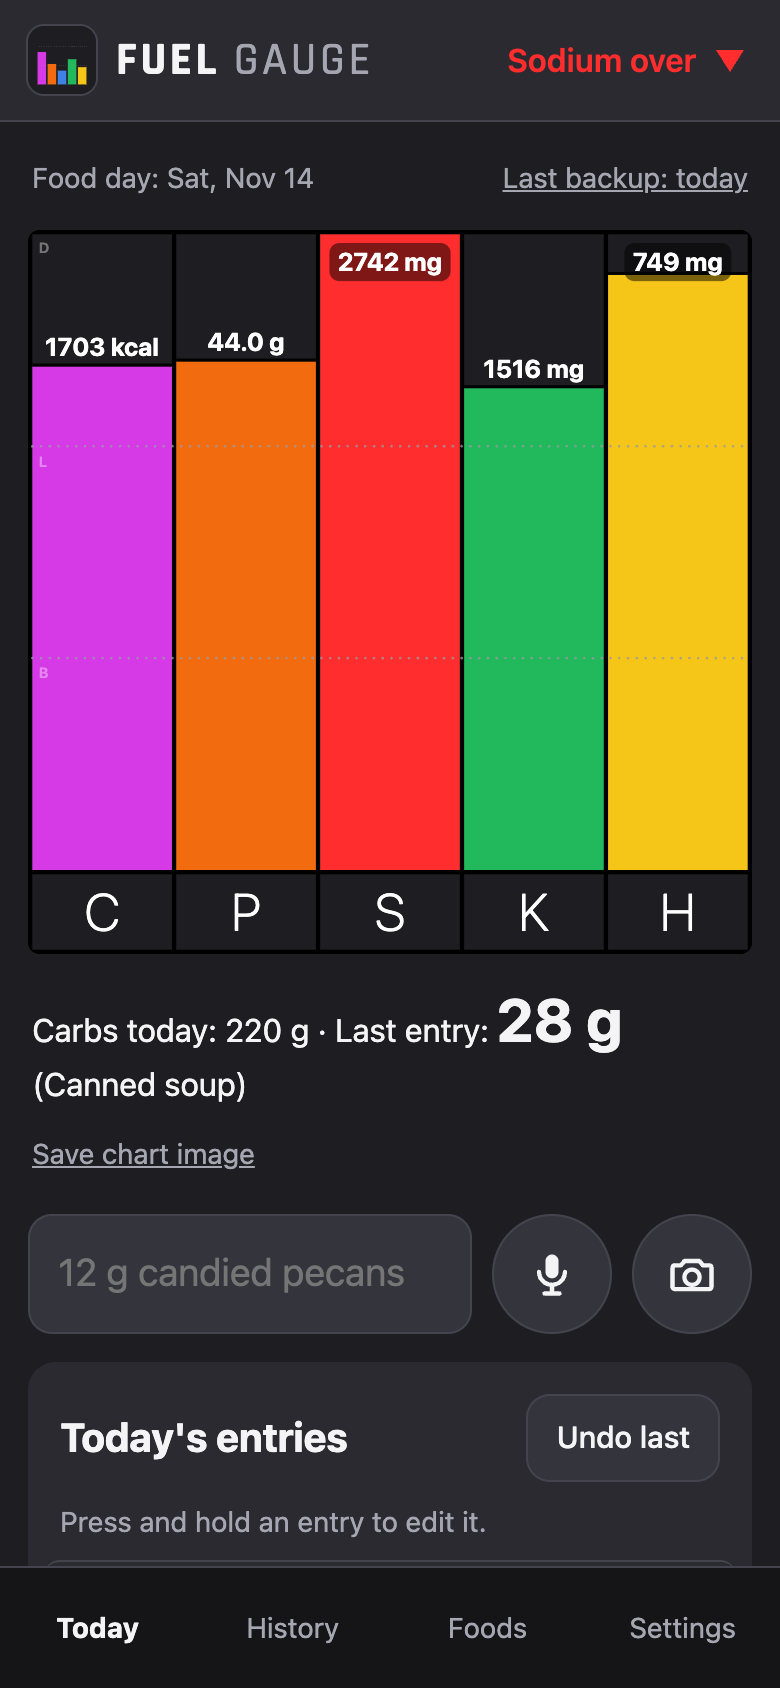
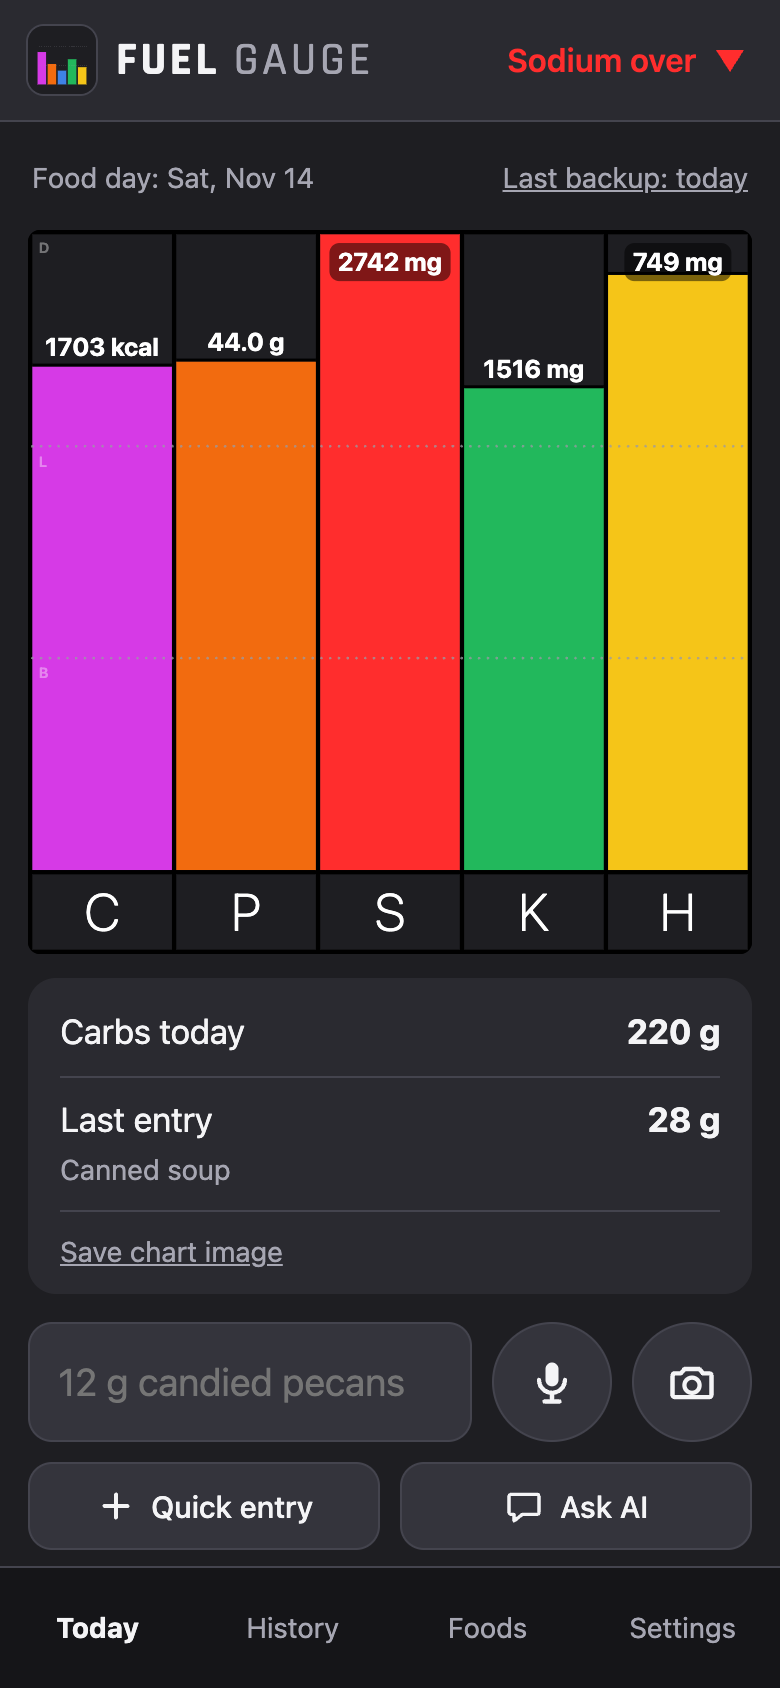
README: retake screenshots, add photo choices, AI chat and Ask AI
All screenshots retaken with the carbs card. A new row shows the label
photo choices, Quick entry filled in from an AI chat, and the Ask AI
screen. readme-shots.mjs mocks the chat replies for those.

Claude-Session: https://claude.ai/code/session_01Eu1dauVWMVH4nTP3g6ZiWb

Changed region(s): [[0.0308, 0.5853, 0.9846, 0.9242], [0.6462, 0.5853, 0.9231, 0.6777], [0.4308, 0.5853, 0.6154, 0.6161]]

diff --git a/README.md b/README.md
@@ -23,7 +23,7 @@ The screenshots use made-up demo data.
 <td width="33%" valign="top"><img src="screenshots/limit-over.png" alt="Sodium over its limit: the sodium bar and the trend indicator turn red"></td>
 </tr>
 <tr>
-<td valign="top"><b>Today.</b> One bar each for calories (C), protein (P), sodium (S), potassium (K) and phosphorus (H), filled against the day's targets. Effective carbs are shown in large type for the last entry, with the day's total beside them. Type or dictate what you ate, or photograph a label.</td>
+<td valign="top"><b>Today.</b> One bar each for calories (C), protein (P), sodium (S), potassium (K) and phosphorus (H), filled against the day's targets. Below it, a card with the day's effective carbs and the last entry's. Type or dictate what you ate, photograph a label, add a Quick entry, or ask the AI.</td>
 <td valign="top"><b>Trend indicator.</b> Top right: on pace (green up arrow), behind or close to a limit (yellow dash), or a limit over (red down arrow). Tap it for the reasons, the calorie pace and the weekly average.</td>
 <td valign="top"><b>Red means danger.</b> Red appears only when a limit is exceeded: the bar, its label and the indicator. Nothing else in the app is red.</td>
 </tr>
@@ -36,6 +36,16 @@ The screenshots use made-up demo data.
 <td valign="top"><b>USDA lookup.</b> A food the app doesn't know yet is searched in USDA FoodData Central. Pick the matching product.</td>
 <td valign="top"><b>Check before saving.</b> Every value shows where it came from, and the card links to the USDA record and gives its date. Nothing is logged until you choose.</td>
 <td valign="top"><b>Label photo.</b> Photograph a Nutrition Facts label and the printed values are read in. Anything the label leaves out, such as phosphorus, is filled in from USDA.</td>
+</tr>
+<tr>
+<td valign="top"><img src="screenshots/photo-choices.png" alt="Label photo choices: take a photo, choose a photo, or paste an image"></td>
+<td valign="top"><img src="screenshots/quick-chat.png" alt="Quick entry filled in from an AI chat that broke a turkey and swiss sandwich into its parts"></td>
+<td valign="top"><img src="screenshots/ask-ai.png" alt="Ask AI screen answering how much phosphorus is in a slice of cheddar, with a Log this button"></td>
+</tr>
+<tr>
+<td valign="top"><b>Any picture.</b> Take a photo, pick one from the library, or paste one. A picture that isn't a label can be estimated with the AI instead.</td>
+<td valign="top"><b>Talk it through.</b> Tell the AI what was in it. It shows each part's numbers and why, and one tap fills in the fields to check before logging. Works on any lookup and in Quick entry.</td>
+<td valign="top"><b>Ask AI.</b> A chat that logs nothing: look a food up, compare two, or ask whether it fits today. An answer with numbers can be sent to Quick entry.</td>
 </tr>
 <tr>
 <td valign="top"><img src="screenshots/history.png" alt="History list of past days with small charts and any limits exceeded"></td>
